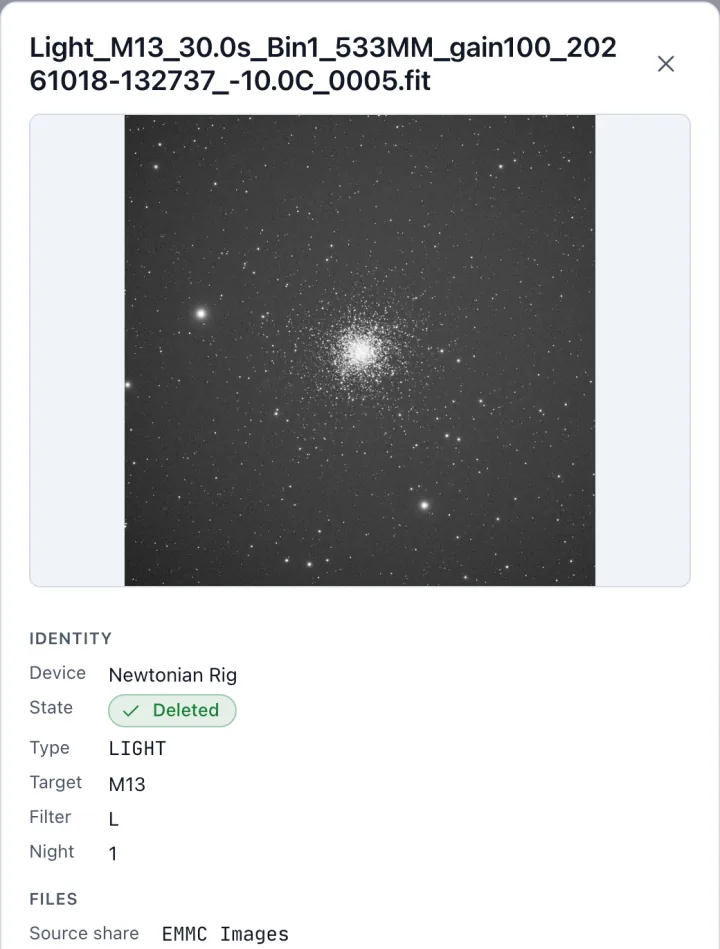
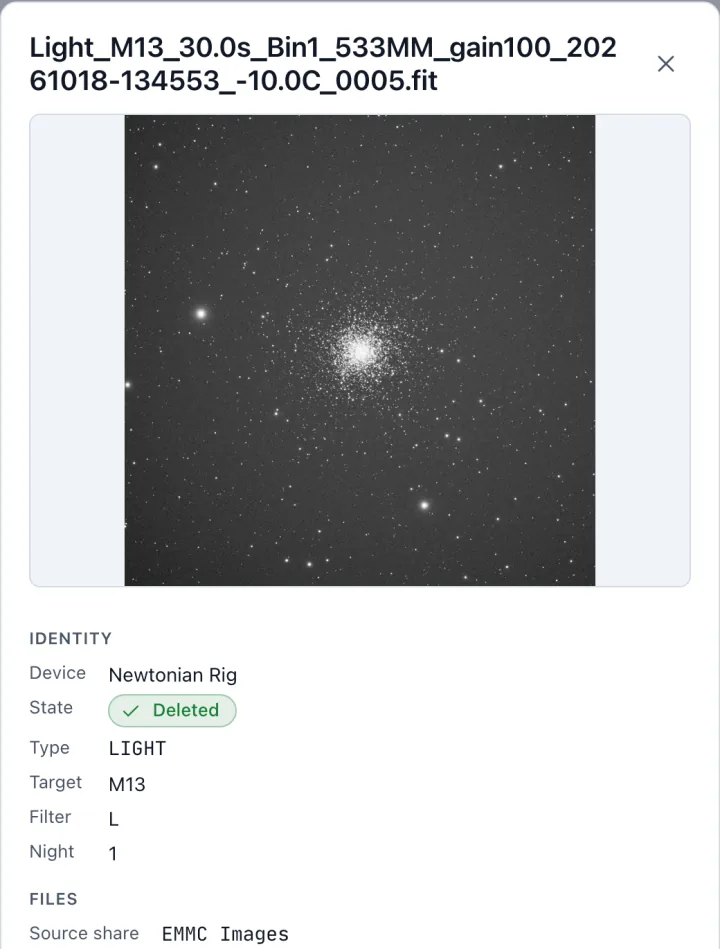
fix: anchor the next-frame ETA on when the next file lands (#10)
The rig card's "next frame ~in …" countdown ended when the next exposure
*started* (the last `DATE-OBS` plus the cadence interval), so it read
"overdue" for roughly one exposure of every cycle.

- The ETA is last capture + interval + exposure, which is when the next
file should appear. The liveness gate never closes before that ETA.
- Regression tests `TestPredictFramesETAIsNextFileArrival` and
`TestPredictFramesLivenessCoversETA`. Design features §5.1, §5.2 and
§5.6 are updated.
- README screenshots are regenerated. A separate commit adds dark-theme
versions that follow the reader's GitHub theme through `<picture>`, with
a note that the app has both themes.

Changed region(s): [[0.3361, 0.0611, 0.6111, 0.1222], [0.2139, 0.0611, 0.3056, 0.1222]]

diff --git a/internal/rig/predict_test.go b/internal/rig/predict_test.go
@@ -41,7 +41,7 @@ func TestPredictFrames(t *testing.T) {
 			captures:   caps(-270*s, -210*s, -150*s, -90*s, -30*s),
 			exposure:   55,
 			wantIntSec: 60,
-			wantNextff: 30 * s, // last (-30s) + 60s interval = +30s
+			wantNextff: 85 * s, // last (-30s) + 60s interval + 55s exposure
 			wantSample: 5,
 		},
 		{
@@ -50,7 +50,7 @@ func TestPredictFrames(t *testing.T) {
 			captures:   caps(-780*s, -720*s, -660*s, -60*s), // gaps 60,60,600 → median 60
 			exposure:   55,
 			wantIntSec: 60,
-			wantNextff: 0, // -60s + 60s = due now
+			wantNextff: 55 * s, // -60s + 60s + 55s
 			wantSample: 4,
 		},
 		{
@@ -58,7 +58,7 @@ func TestPredictFrames(t *testing.T) {
 			captures:   caps(-120*s, -30*s), // one 90s gap
 			exposure:   55,
 			wantIntSec: 90,
-			wantNextff: 60 * s, // -30s + 90s
+			wantNextff: 115 * s, // -30s + 90s + 55s
 			wantSample: 2,
 		},
 		{
@@ -67,7 +67,7 @@ func TestPredictFrames(t *testing.T) {
 			captures:   caps(-20 * s),
 			exposure:   300,
 			wantIntSec: 300,
-			wantNextff: 280 * s, // -20s + 300s
+			wantNextff: 580 * s, // -20s + 300s + 300s
 			wantSample: 1,
 		},
 		{
@@ -95,7 +95,7 @@ func TestPredictFrames(t *testing.T) {
 			captures:   caps(-3060*s, -3000*s),
 			exposure:   800,
 			wantIntSec: 60,
-			wantNextff: -2940 * s, // -3000s + 60s, overdue but live
+			wantNextff: -2140 * s, // -3000s + 60s + 800s, overdue but live
 			wantSample: 2,
 		},
 		{
@@ -107,10 +107,10 @@ func TestPredictFrames(t *testing.T) {
 		{
 			// Overdue is normal, not expiry: ETA is in the past yet still Predicting.
 			name:       "overdue keeps predicting",
-			captures:   caps(-180*s, -90*s), // 90s gap, newest 90s ago
+			captures:   caps(-235*s, -145*s), // 90s gap, newest 145s ago
 			exposure:   55,
 			wantIntSec: 90,
-			wantNextff: 0, // -90s + 90s = predBase exactly (due now)
+			wantNextff: 0, // -145s + 90s + 55s = predBase exactly (due now)
 			wantSample: 2,
 		},
 		{
@@ -119,7 +119,7 @@ func TestPredictFrames(t *testing.T) {
 			captures:   caps(-720*s, -420*s, -360*s, -60*s, 0),
 			exposure:   60,
 			wantIntSec: 180,
-			wantNextff: 180 * s, // newest at predBase + 180s
+			wantNextff: 240 * s, // newest at predBase + 180s + 60s
 			wantSample: 5,
 		},
 	}
@@ -156,6 +156,44 @@ func TestPredictFrames(t *testing.T) {
 	}
 }
 
+// The ETA is when the next frame's FILE should land, not when its exposure starts.
+// DATE-OBS is the exposure start, so the newest capture's file appeared about one
+// exposure after it, and the next exposure began one interval after it; its file
+// lands one exposure later still. Anchoring at capture + interval reads "due now"
+// the moment a file lands and "overdue" for the whole of the next exposure.
+func TestPredictFramesETAIsNextFileArrival(t *testing.T) {
+	const s = time.Second
+	// 300s exposures every 310s. The newest exposure started 310s ago, so its file
+	// landed about 10s ago and the next exposure started just now.
+	got := predictFrames(caps(-930*s, -620*s, -310*s), 300, predBase, 0)
+	if got == nil {
+		t.Fatal("predictFrames = nil, want a prediction")
+	}
+	if want := predBase.Add(300 * s).Unix(); got.NextExpectedTS != want {
+		t.Fatalf("NextExpectedTS = %+ds from now, want +300s (next exposure started now, its file lands one exposure later)",
+			got.NextExpectedTS-predBase.Unix())
+	}
+}
+
+// The liveness window never ends a prediction before its ETA: a cadence slower than
+// the exposure-based window (here 3700s gaps against max(5×60s, 1h)) keeps predicting
+// until capture + interval + exposure, and expires once past both.
+func TestPredictFramesLivenessCoversETA(t *testing.T) {
+	const s = time.Second
+	// Newest capture 3650s ago: past the 1h window, before the 3760s ETA lead.
+	got := predictFrames(caps(-7350*s, -3650*s), 60, predBase, 0)
+	if got == nil {
+		t.Fatal("predictFrames = nil before the ETA, want a prediction")
+	}
+	if want := predBase.Add(110 * s).Unix(); got.NextExpectedTS != want {
+		t.Errorf("NextExpectedTS = %+ds from now, want +110s", got.NextExpectedTS-predBase.Unix())
+	}
+	// Newest capture 3761s ago: past the window and the ETA.
+	if got := predictFrames(caps(-7461*s, -3761*s), 60, predBase, 0); got != nil {
+		t.Errorf("predictFrames = %+v past both the window and the ETA, want nil", got)
+	}
+}
+
 // The gaps are device-domain, so a non-zero device clock offset cancels out of the
 // interval; only the ETA anchor is corrected by -offset, once, into host domain.
 func TestPredictFramesOffsetCancellation(t *testing.T) {
@@ -173,8 +211,8 @@ func TestPredictFramesOffsetCancellation(t *testing.T) {
 	if got.IntervalSec != 60 {
 		t.Errorf("IntervalSec = %v, want 60 (offset must cancel in the gaps)", got.IntervalSec)
 	}
-	// Host-domain ETA: newest host capture (predBase) + 60s interval.
-	if want := predBase.Add(60 * s).Unix(); got.NextExpectedTS != want {
+	// Host-domain ETA: newest host capture (predBase) + 60s interval + 55s exposure.
+	if want := predBase.Add(115 * s).Unix(); got.NextExpectedTS != want {
 		t.Errorf("NextExpectedTS = %d, want %d (anchor corrected by -offset)", got.NextExpectedTS, want)
 	}
 }

diff --git a/internal/rig/predict.go b/internal/rig/predict.go
@@ -27,9 +27,9 @@ const predictStatePredicting = "predicting"
 // It is pure — no device, store, or SMB dependency — so the cadence math and the
 // liveness gate are unit-testable without a rig. It returns nil (→ Unknown; the
 // caller leaves RigStatus.Prediction unset) when there are no captures, when the
-// gaps yield no usable interval, or when the newest capture is already outside the
-// liveness window. The window and the ETA anchor are both evaluated in the HOST
-// domain by correcting the device capture time with -offset, exactly as
+// gaps yield no usable interval, or when the newest capture is already past both
+// the liveness window and the ETA. The window and the ETA anchor are both evaluated
+// in the HOST domain by correcting the device capture time with -offset, exactly as
 // clock.Clock.YoungerThan corrects a device timestamp.
 func predictFrames(captures []time.Time, lastExposureSec float64, now time.Time, offset time.Duration) *model.FramePrediction {
 	if len(captures) == 0 {
@@ -39,26 +39,32 @@ func predictFrames(captures []time.Time, lastExposureSec float64, now time.Time,
 	// same transform the min-file-age check uses).
 	lastHost := captures[len(captures)-1].Add(-offset)
 
-	// Capture-time liveness gate (design features §5): predict only while the newest
-	// capture is recent. This is measured from CAPTURE time, never arrival/filed
-	// time, so a backfill of historical frames — whose newest capture is old even
-	// though the row was just filed — never predicts, with no explicit backfill
-	// detection. A live session that briefly fell behind and is catching up keeps
-	// recent captures, so it correctly stays Predicting.
-	if now.Sub(lastHost) > livenessWindow(lastExposureSec) {
-		return nil
-	}
-
 	interval, samples := cadenceInterval(captures, lastExposureSec)
 	if interval <= 0 {
 		return nil
 	}
 
-	// Anchor "next expected" at the device capture time plus the interval, then
-	// correct to host domain so the browser counts down against its own clock.
-	// Overdue is normal (overhead ran long); only the liveness window above flips
-	// the state to Unknown.
-	nextHost := lastHost.Add(interval)
+	// Anchor "next expected" on when the next frame's FILE should land (design
+	// features §5.2): the captures are DATE-OBS, the exposure START, so the next
+	// exposure starts one interval after the newest capture and its file appears one
+	// exposure after that. Anchoring at capture + interval would read "overdue" for
+	// most of every exposure. The device time is corrected to host domain so the
+	// browser counts down against its own clock. Overdue is normal (overhead ran
+	// long); only the liveness gate below flips the state to Unknown.
+	lead := interval + time.Duration(lastExposureSec*float64(time.Second))
+	nextHost := lastHost.Add(lead)
+
+	// Capture-time liveness gate (design features §5.1): predict only while the newest
+	// capture is recent. This is measured from CAPTURE time, never arrival/filed
+	// time, so a backfill of historical frames — whose newest capture is old even
+	// though the row was just filed — never predicts, with no explicit backfill
+	// detection. A live session that briefly fell behind and is catching up keeps
+	// recent captures, so it correctly stays Predicting. The gate never closes before
+	// the ETA itself: a frame not yet due is not a stalled sequence.
+	if now.Sub(lastHost) > max(livenessWindow(lastExposureSec), lead) {
+		return nil
+	}
+
 	return &model.FramePrediction{
 		State:           predictStatePredicting,
 		IntervalSec:     interval.Seconds(),
@@ -110,7 +116,8 @@ func medianDuration(ds []time.Duration) time.Duration {
 // the stable exposure, not the measured interval, because a legitimate long
 // flip/autofocus gap would inflate a measured interval to something absurd and keep
 // a dead prediction alive for hours. The 1h floor dominates for typical exposures;
-// only a very long exposure (>720s) lets 5×lastExposure win.
+// only a very long exposure (>720s) lets 5×lastExposure win. predictFrames extends
+// it to the ETA when a cadence is slower than the window.
 func livenessWindow(lastExposureSec float64) time.Duration {
 	if w := time.Duration(lastExposureSec*5) * time.Second; w > time.Hour {
 		return w

diff --git a/docs/design/2026-10-17-features.md b/docs/design/2026-10-17-features.md
@@ -1174,13 +1174,16 @@ There are two states. **Predicting** is published as a `prediction` object on `R
 ```
 Unknown ──(≥1 recent light since local noon, inside the liveness window)──► Predicting
 Predicting ──(a light is filed)──► Predicting (recomputed)
-Predicting ──(t − last_capture > window, or the observing night rolls over)──► Unknown
+Predicting ──(t − last_capture > window and past the ETA, or the observing night rolls over)──► Unknown
 ```
 
 **The liveness gate is anchored on capture time.** A prediction exists only while
-`t − last_capture_host ≤ max(5 × last_exposure, 1 h)`. Here `last_capture_host` is the newest
-light's device capture time corrected to host time, and `last_exposure` is that frame's `Exptime`.
-Two consequences follow:
+`t − last_capture_host ≤ max(5 × last_exposure, 1 h, interval + last_exposure)`. Here
+`last_capture_host` is the newest light's device capture time corrected to host time, and
+`last_exposure` is that frame's `Exptime`. The last term is the ETA's lead (§5.2 step 5): a frame
+that is not yet due is no sign of a stalled sequence, so the gate never closes before the ETA. It
+binds only for a cadence slower than four exposures past the 1-hour floor. Two consequences
+follow:
 
 - **A backfill of historical frames never predicts.** Its newest capture is already outside the
   window, even though the row was just filed, so no "am I backfilling?" detection is needed. A
@@ -1208,7 +1211,14 @@ Two consequences follow:
 4. With **one** frame the interval falls back to the exposure, with `sample_count = 1`, and the UI
    renders it softly ("next frame ~soon"), never as a firm countdown. With none there is no
    prediction.
-5. **Next expected** is `last_capture + interval`, corrected to host time.
+5. **Next expected** is `last_capture + interval + last_exposure`, corrected to host time: when
+   the next frame's file should land. The capture time is the exposure start, so
+   `last_capture + interval` is when the next exposure **starts**; its file appears one exposure
+   later, plus the save and listing lag. Anchoring at the start would read "overdue" for most of
+   every exposure, while the anchor at the file's arrival leaves only the lag to show as a few
+   seconds overdue. When the capture time falls back to the mtime (step 2), which marks the end of
+   the exposure, the ETA errs one exposure late; the ASIAIR writes `DATE-OBS`
+   ([asiair-hardware-notes §8.1](2026-10-17-asiair-hardware-notes.md)), so the fallback is rare.
 
 **The clock offset.** `offset = device − host` is measured per SMB session (`internal/clock`).
 Both ends of a gap are device-domain, so the offset **cancels** and the interval needs no
@@ -1235,7 +1245,8 @@ and the observing-night boundary. The snapshot is also what both glance cards, D
 Devices, already render. Commander's cards render backend-computed status verbatim (`drain`,
 `safe_to_power_off`) rather than deriving state client-side.
 
-Guards: `TestPredictFrames`, `TestFrameCaptureTime`, `TestFramePredictionLiveSession`,
+Guards: `TestPredictFrames`, `TestPredictFramesETAIsNextFileArrival`,
+`TestPredictFramesLivenessCoversETA`, `TestFrameCaptureTime`, `TestFramePredictionLiveSession`,
 `TestFramePredictionDedupesH12`, `TestFramePredictionBacklogBurstStaysUnknown`,
 `TestFramePredictionSessionRollover`.
 
@@ -1272,7 +1283,8 @@ The ticker exists only while a countdown is showing (`formatCountdown` in `web/s
 |---|---|
 | Compute in the frontend from `listFrames` | No access to the clock offset; it would duplicate the night-boundary and dedup logic; and the frame list is not loaded on the glance cards. |
 | `pulled_at` as the capture time | A backlog burst reads as a false fast cadence. |
-| The measured interval as the basis of expiry | A legitimate flip or autofocus gap inflates it absurdly. |
+| The measured interval as the basis of expiry | A legitimate flip or autofocus gap inflates it absurdly. It only floors the window at the ETA. |
+| `last_capture + interval` as the ETA | That is when the next exposure starts, not when its file lands, so the readout reads "overdue" for most of every exposure. |
 | Liveness measured from when the row was filed | A backfill would predict. |
 | Mean instead of median | One outlier gap skews the mean. |
 | Exposure plus a fixed overhead constant as the interval | The overhead is a guess; the measured median calibrates itself and includes the real overhead. |

diff --git a/README.md b/README.md
@@ -15,23 +15,24 @@ or supported by ZWO.
 
 ## Screenshots
 
-![The dashboard: one card per rig, each copying a frame, with what is still on the device and whether it is safe to power off](docs/screenshots/dashboard.webp)
+<picture><source media="(prefers-color-scheme: dark)" srcset="docs/screenshots/dashboard-dark.webp"><img src="docs/screenshots/dashboard.webp" alt="The dashboard: one card per rig, with its copy and cleanup progress, the next-frame countdown, what is still on the device and whether it is safe to power off"></picture>
 
 *Tonight's dashboard: each rig's card says whether it is safe to power off, what it is copying
 and what is left on the device.*
 
-![The live feed: frames from both rigs with thumbnails, plate-solved coordinates and rotation, copying, pending deletion and deleted](docs/screenshots/feed.webp)
+<picture><source media="(prefers-color-scheme: dark)" srcset="docs/screenshots/feed-dark.webp"><img src="docs/screenshots/feed.webp" alt="The live feed: frames from both rigs with thumbnails, plate-solved coordinates and rotation, and each frame's state"></picture>
 
 *The live feed: every frame as it is discovered, copied, filed and cleaned up, with a thumbnail
 and the coordinates and rotation of Commander's own plate solve.*
 
 <p>
-<img src="docs/screenshots/frame-detail.webp" width="360" alt="A frame's detail: a stretched preview of the globular cluster M13 above its device, state, target and filter">
-<img src="docs/screenshots/dashboard-mobile.webp" width="200" alt="The dashboard on a phone">
+<picture><source media="(prefers-color-scheme: dark)" srcset="docs/screenshots/frame-detail-dark.webp"><img src="docs/screenshots/frame-detail.webp" width="360" alt="A frame's detail: a stretched preview of the globular cluster M13 above its device, state, target and filter"></picture>
+<picture><source media="(prefers-color-scheme: dark)" srcset="docs/screenshots/dashboard-mobile-dark.webp"><img src="docs/screenshots/dashboard-mobile.webp" width="200" alt="The dashboard on a phone"></picture>
 </p>
 
 *Left, a frame's detail with its preview; right, the dashboard on a phone.*
 
+Commander has a light and a dark theme, and the screenshots follow your GitHub theme.
 The screenshots come from the demo build, whose rigs and frames are synthetic. The star fields
 are rendered from the Gaia DR3 catalogue (ESA/Gaia/DPAC,
 [CC BY-NC 3.0 IGO](https://www.cosmos.esa.int/web/gaia-users/license));

diff --git a/docs/design/README.md b/docs/design/README.md
@@ -15,4 +15,4 @@ together and how code and other docs cite a section. A new design doc is added a
 - [`2026-10-17-remote-sites.md`](2026-10-17-remote-sites.md) — Rigs at another location reached through a paired `remote` over a pinned tailcat tunnel: the site seams, pairing and trust, identity across paths, the delete path where the remote measures and Commander decides, behaviour on an unreliable link, and the invariants and acceptance criteria. <!-- sha256:921b16f9 -->
 - [`2026-10-17-device-file-browser.md`](2026-10-17-device-file-browser.md) — The File browser page over managed ASIAIRs — browse, download, copy, new folder, delete, upload and rename — run on the request goroutine behind one operation lock, with the identity probe, temp-and-rename writes and the rules that keep it out of the harvester's way. <!-- sha256:fa64f6a4 -->
 - [`2026-10-17-asiair-hardware-notes.md`](2026-10-17-asiair-hardware-notes.md) — The ASIAIR's observed behaviour the design relies on: the hardware findings H1–H13, shares and on-device layout, empty versus absent media, the scan_air and :4700 protocols, the device clock, the FITS headers it writes, and the SMB1 client behaviours it forces. <!-- sha256:25658b3f -->
-- [`2026-10-17-features.md`](2026-10-17-features.md) — Features built on the core pipeline that take no part in a delete decision: FITS previews, astrometry from the embedded WCS, hinted plate solving with ASTAP, the live transfer feed, next-frame cadence prediction, opt-in device clock sync, and the newer-release indicator. <!-- sha256:435512f5 -->
+- [`2026-10-17-features.md`](2026-10-17-features.md) — Features built on the core pipeline that take no part in a delete decision: FITS previews, astrometry from the embedded WCS, hinted plate solving with ASTAP, the live transfer feed, next-frame cadence prediction, opt-in device clock sync, and the newer-release indicator. <!-- sha256:1e6a6ffa -->

diff --git a/docs/screenshots/README.md b/docs/screenshots/README.md
@@ -4,6 +4,10 @@ The images in this directory are the curated screenshots the top-level README sh
 captured from the `-tags demo` build, whose in-memory rigs produce synthetic frames: no real
 device, network or capture appears in them.
 
+Each image comes in the light theme (`<name>.webp`) and the dark theme (`<name>-dark.webp`). The
+README wraps each pair in a `<picture>` whose `prefers-color-scheme: dark` source picks the dark
+one, so GitHub shows the theme matching the reader's, with the light image as the fallback.
+
 ## Credit for the rendered sky
 
 The star fields in the frame previews and thumbnails are rendered by `tools/starfield` from the
@@ -20,8 +24,10 @@ make screenshots
 ```
 
 This builds the SPA and a demo binary, seeds a live demo data dir, runs the demo until enough
-frames have been filed and plate-solved, captures every surface with `scripts/screenshots.mjs`,
-and rewrites the WebP files here. The build is stamped with the latest `v*` tag, so the images
+frames have been filed and plate-solved, captures every surface with `scripts/screenshots.mjs`
+once with the browser reporting a light colour scheme and once a dark one (`COLOR_SCHEME`; the SPA
+follows it when no theme is stored), and rewrites the WebP files here. The two passes run a minute
+or so apart against the live demo, so a light image and its dark twin can show different frames. The build is stamped with the latest `v*` tag, so the images
 show a release version, and the update check is turned off in the seeded config, so the run never
 calls GitHub. It needs Go, Node with a global Playwright install
 (`npm install -g playwright`), `sqlite3` and `cwebp`. A first run downloads the Gaia cones, the
